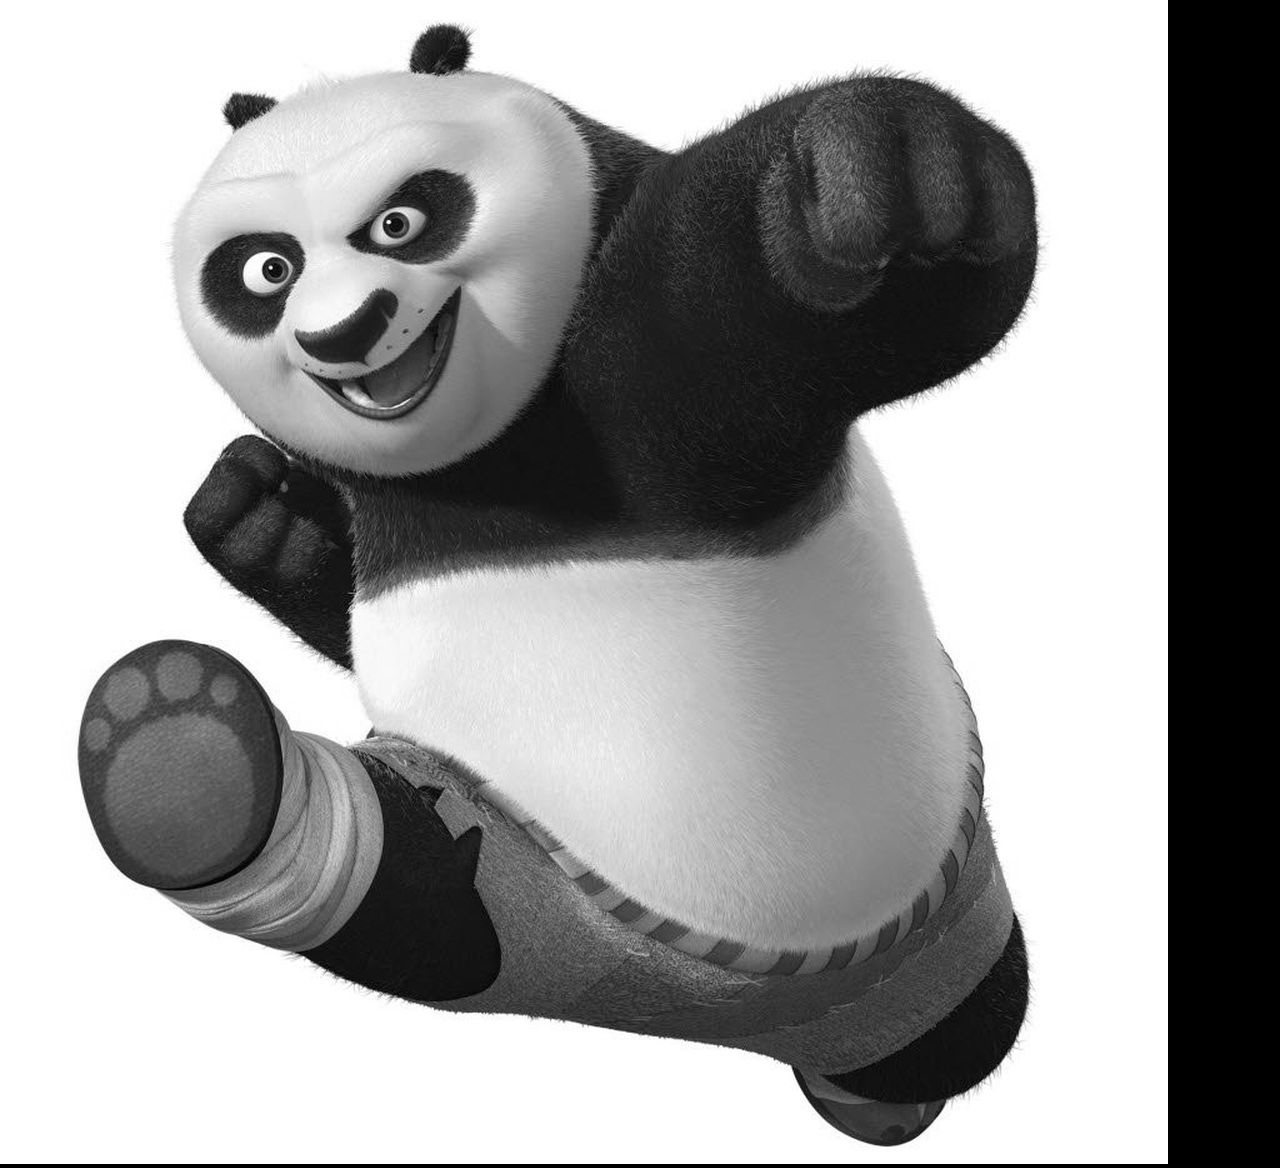
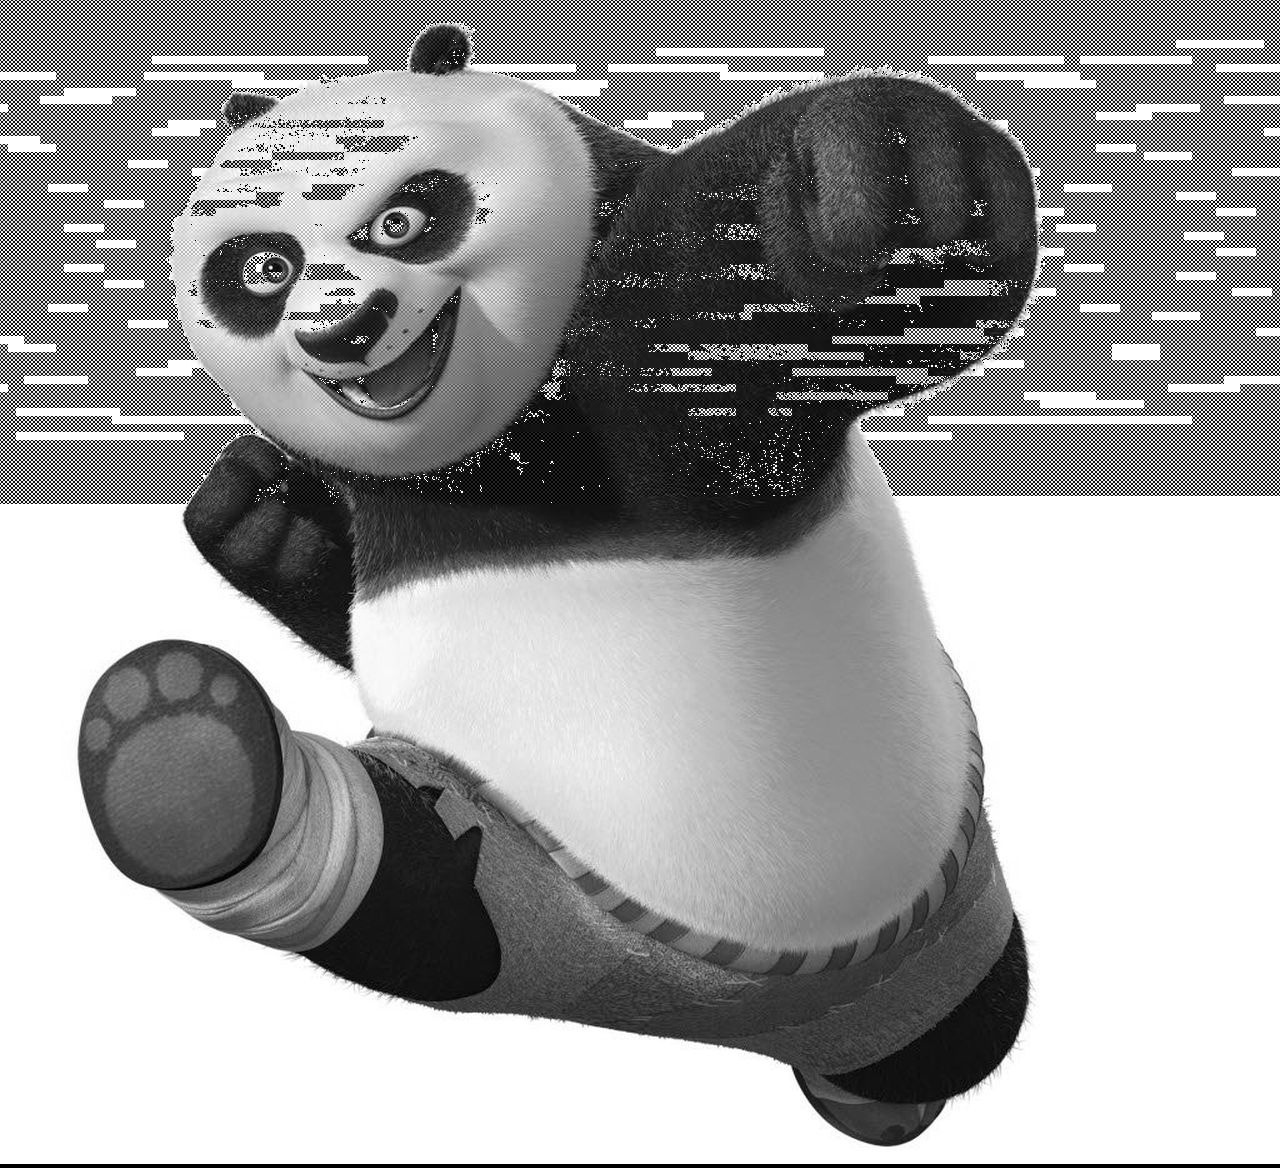
Image embedded and extracted successfully

Changed region(s): [[0.0, 0.0, 1.0, 1.0]]

diff --git a/DCT/DCT_of_Image.py b/DCT/DCT_of_Image.py
@@ -16,12 +16,18 @@ def dct2D(a):
 def idct2D(a):
     return spfft.idct(spfft.idct(a.T, norm='ortho').T, norm='ortho')
 
+
+watermark = cv.imread('star.png',0)
+cv.imshow('Star -- To be Watermarked', watermark)
+cv.waitKey(0)
+print(watermark.shape[0]) 
+print(watermark.shape[1])
+watermarked_reshaped = watermark.reshape((1,watermark.shape[0]*watermark.shape[1]))
+watermark_nparray = np.zeros((1,watermark.shape[0]*watermark.shape[1]))
+watermark_nparray = watermarked_reshaped
+
 img11 = cv.imread('KungFuPanda.jpg',0) 
-
-
-
 cv.imshow('Kung Fu Panda', img11)  
-
 cv.waitKey(0)
 
 
@@ -57,16 +63,31 @@ dct_of_padded_image = np.zeros((np.shape(padded_image)))
 cv.imshow('Kung Fu Panda Padded', padded_image)  
 cv.waitKey(0)
 
-
 # Padded Image is now ready for performing DCT 
 
 # Performing DCT on 8x8 blocks now 
 
-for i in range(0,height,8): 
-    for j in range(0,height,8): 
-        dct_of_padded_image[i:(i+8), j:(j+8)] = dct2D(padded_image[i:(i+8), j:(j+8)]) 
+for i in range(0,new_height,8): 
+    for j in range(0,new_width,8): 
+      #  for m in range(0, watermark.shape[0], 4) :
+       #     for n in range(0, watermark.shape[1], 4): 
+                dct_of_padded_image[i:(i+8), j:(j+8)] = dct2D(padded_image[i:(i+8), j:(j+8)]) 
+               # dct_of_padded_image[(i+4):(i+8), j:(j+4)] = watermark[m:(m+4), n:(n+4)]
+# Embedding the watermark into DCT Domain now 
+
+m = 0 
+for i in range(0,new_height,8): 
+    for j in range(0,new_width,8): 
+        if(m < 10000):
+            dct_of_padded_image[(i+4), (j+4)] = np.reshape(watermark_nparray[0,m], (1,1)) 
+            m = m+1
 
 
+
+print(dct_of_padded_image[0:(8), 0:(8)])
+print(dct_of_padded_image[1112:(1112+8), 784])
+
+print(watermark[0:(4), 0:(4)])
 
 cv.imshow('Kung Fu Panda in DCT Domain', dct_of_padded_image)  
 cv.waitKey(0)
@@ -74,17 +95,31 @@ cv.waitKey(0)
 
 original_image_after_idct = np.zeros(np.shape(padded_image), dtype=np.uint8)
 
-for k in range(0,height,8): 
-    for l in range(0,height,8): 
+for k in range(0,new_height,8): 
+    for l in range(0,new_width,8): 
         original_image_after_idct[k:(k+8), l:(l+8)] = idct2D(dct_of_padded_image[k:(k+8), l:(l+8)]) 
-
-
+        
 cv.imshow('Kung Fu Panda bank in spatial domain from DCT Domain', original_image_after_idct)  
 cv.waitKey(0)
 
 
 # Writing all the images in the file 
 cv.destroyAllWindows()
+
+# Extracting the water mark 
+n = 0 
+watermark_extracted = np.zeros((1, np.shape(watermark)[0]*np.shape(watermark)[1]))
+
+for i in range(0,new_height,8): 
+    for j in range(0,new_width,8): 
+        if(n < 10000): 
+            watermark_extracted[0,n] = dct_of_padded_image[(i+4), (j+4)]  
+            n = n + 1 
+
+watermark_extracted_reshaped = np.reshape(watermark_extracted, (np.shape(watermark)[0], np.shape(watermark)[1]))
+
+cv.imshow('Extracted Watermark', watermark_extracted_reshaped.astype(np.uint8))
+cv.waitKey(0) 
 
 cv.imwrite('Kung Fu Panda Padded.jpg', padded_image)  
 cv.imwrite('Kung Fu Panda Padded.jpg', padded_image)  

diff --git a/DWT/DWT_of_image.py b/DWT/DWT_of_image.py
@@ -47,14 +47,15 @@ cv.waitKey(0)
 # Now working on 2 Level Discrete Wavelet Transforms 
 
 img = cv.imread('Lenna.png',0) 
-
 cv.imshow('Lenna Original',img) 
 cv.waitKey(0)
 cv.imwrite('Lenna Original.jpg', img)
 coeff_level2 = pywt.wavedec2(img, 'db3', mode = 'symmetric', level=2 )
 [cA2, (cH2, cV2, cD2), (cH1, cV1, cD1)] = coeff_level2 
 
+
 # Level 1 Decomposition Images 
+
 img_intermediate = pywt.idwt2((cA2, (cH2, cV2, cD2)), 'db3',mode = 'symmetric') 
 plotty.subplot(2,2,1)
 cv.imshow('Approximate Details - Level 1', img_intermediate.astype(np.uint8))
@@ -71,6 +72,19 @@ cv.imwrite('Diagonal Details (cD) - Level 1.jpg', cD1.astype(np.uint8))
 cv.waitKey(0)
 
 
+# Embedded the image information in cH Level 2 
+watermark = cv.imread('star.png',0) 
+cv.imshow('Watermark',watermark)
+cv.waitKey(0) 
+
+padded_watermark = np.zeros((np.shape(cH2)))
+padded_watermark[:np.shape(watermark)[0],:np.shape(watermark)[1]] = watermark
+cH2 = padded_watermark 
+
+cv.imwrite('Horizontal Details Modified (cH) - Level 1.jpg', cH2.astype(np.uint8))
+
+'''
+
 # Level 2 Decomposition 
 plotty.subplot(2,2,1)
 cv.imshow('Approximate Details - Level 2', cA2.astype(np.uint8))
@@ -86,8 +100,26 @@ cv.imshow('Diagonal Details (cD) - Level 2', cD2.astype(np.uint8))
 cv.imwrite('Diagonal Details (cD) - Level 2.jpg', cD2.astype(np.uint8))
 cv.waitKey(0)
 
+''' 
+
 # Reconstructing the image using Inverse DWT 
-img_reconstructed = pywt.waverec2(coeff_level2, 'db3',mode = 'symmetric') 
+coefff_level2_dash = [cA2, (cH2, cV2, cD2), (cH1, cV1, cD1)]
+
+img_reconstructed = pywt.waverec2(coefff_level2_dash, 'db3',mode = 'symmetric') 
 cv.imshow('Reconstructed Lenna Image', img_reconstructed.astype(np.uint8))
-cv.imwrite('Reconstructed Lenna Image.jpg', img_reconstructed.astype(np.uint8))
 cv.waitKey(0)
+# cv.imwrite('Reconstructed Lenna Image.jpg', img_reconstructed.astype(np.uint8))
+cv.destroyAllWindows()
+
+
+# Extracting the Watermark Image from this reconstructed image
+# Watermark is in cH2
+
+
+coeff_level21 = pywt.wavedec2(img_reconstructed, 'db3', mode = 'symmetric', level=2 )
+[cA21, (cH21, cV21, cD21), (cH11, cV11, cD11)] = coeff_level21
+
+cv.imshow('Extracted Watermark:', cH21.astype(np.uint8))
+cv.waitKey(0) 
+
+
